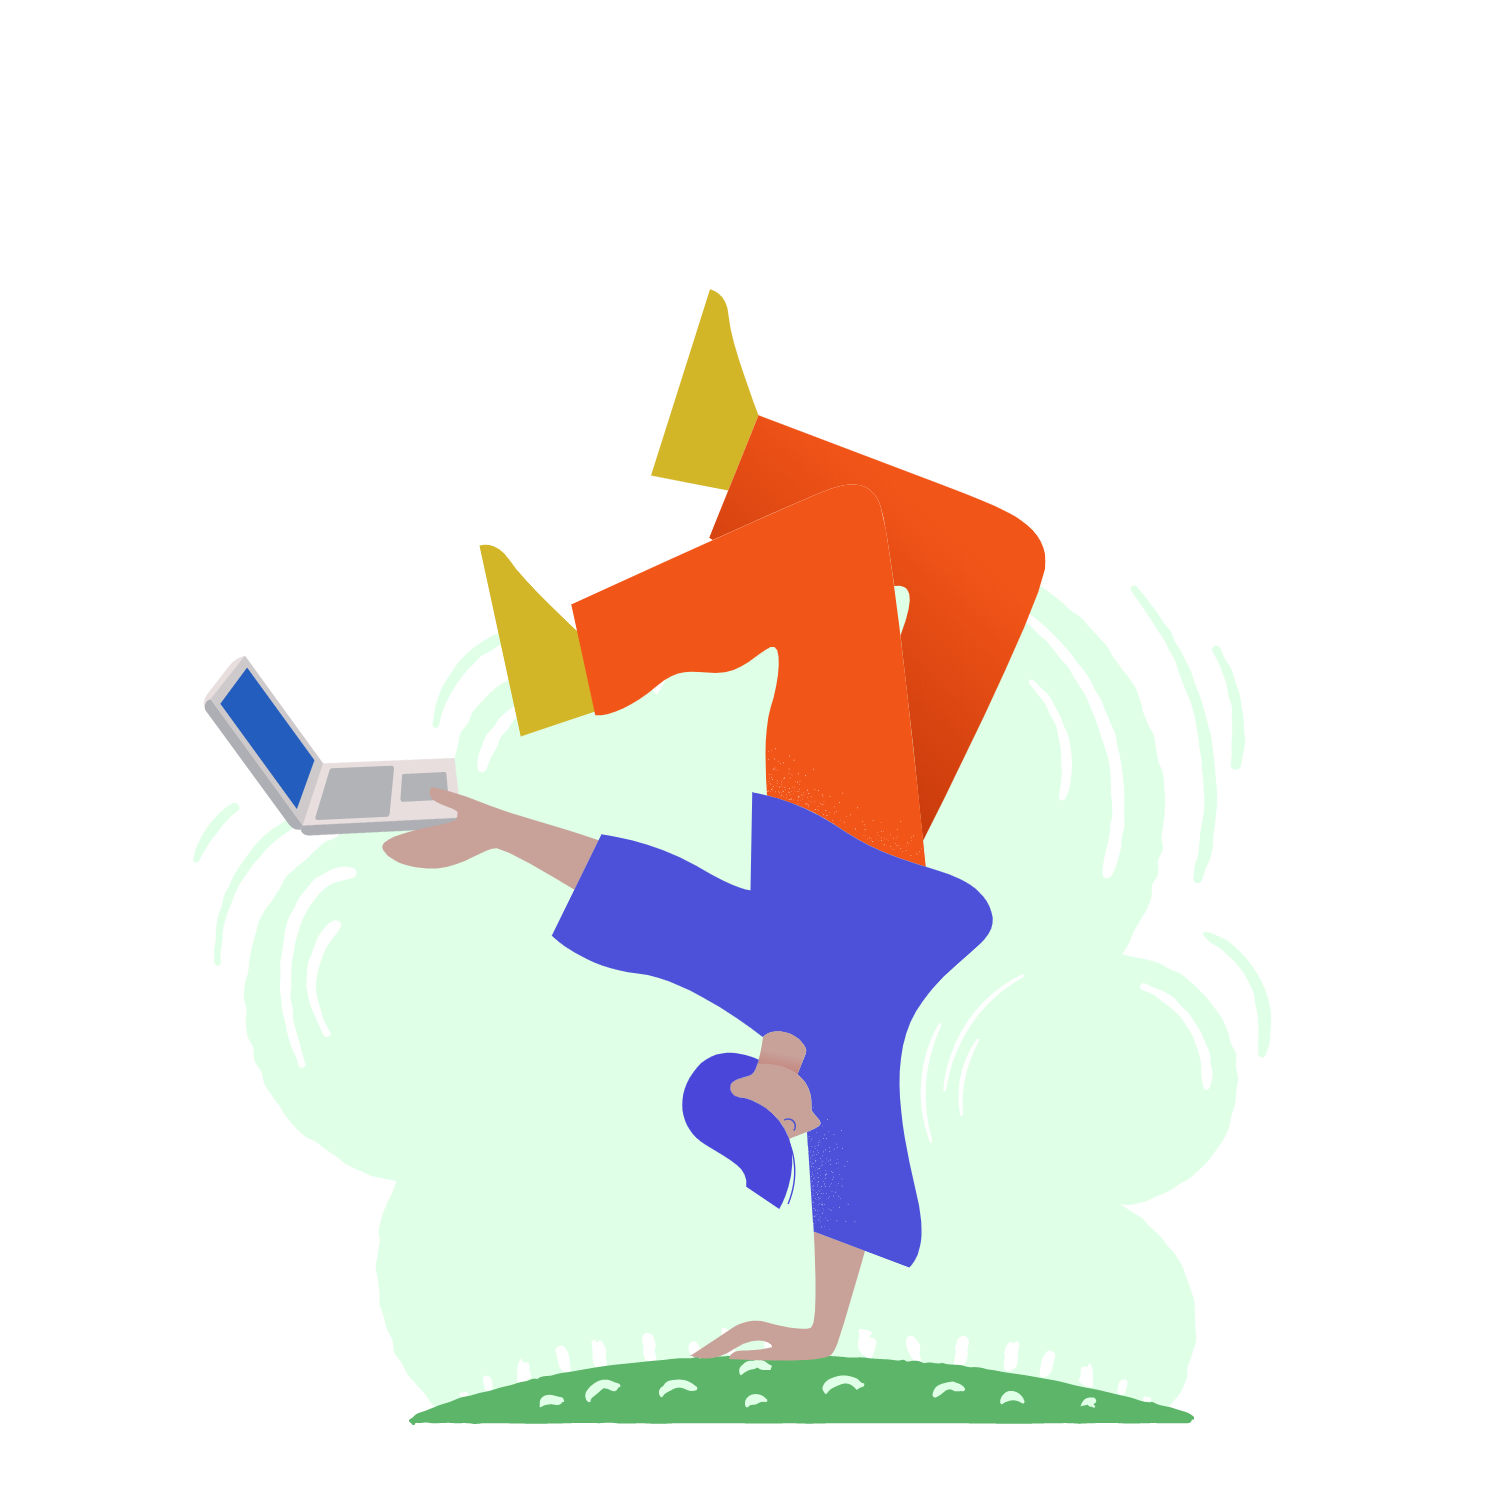
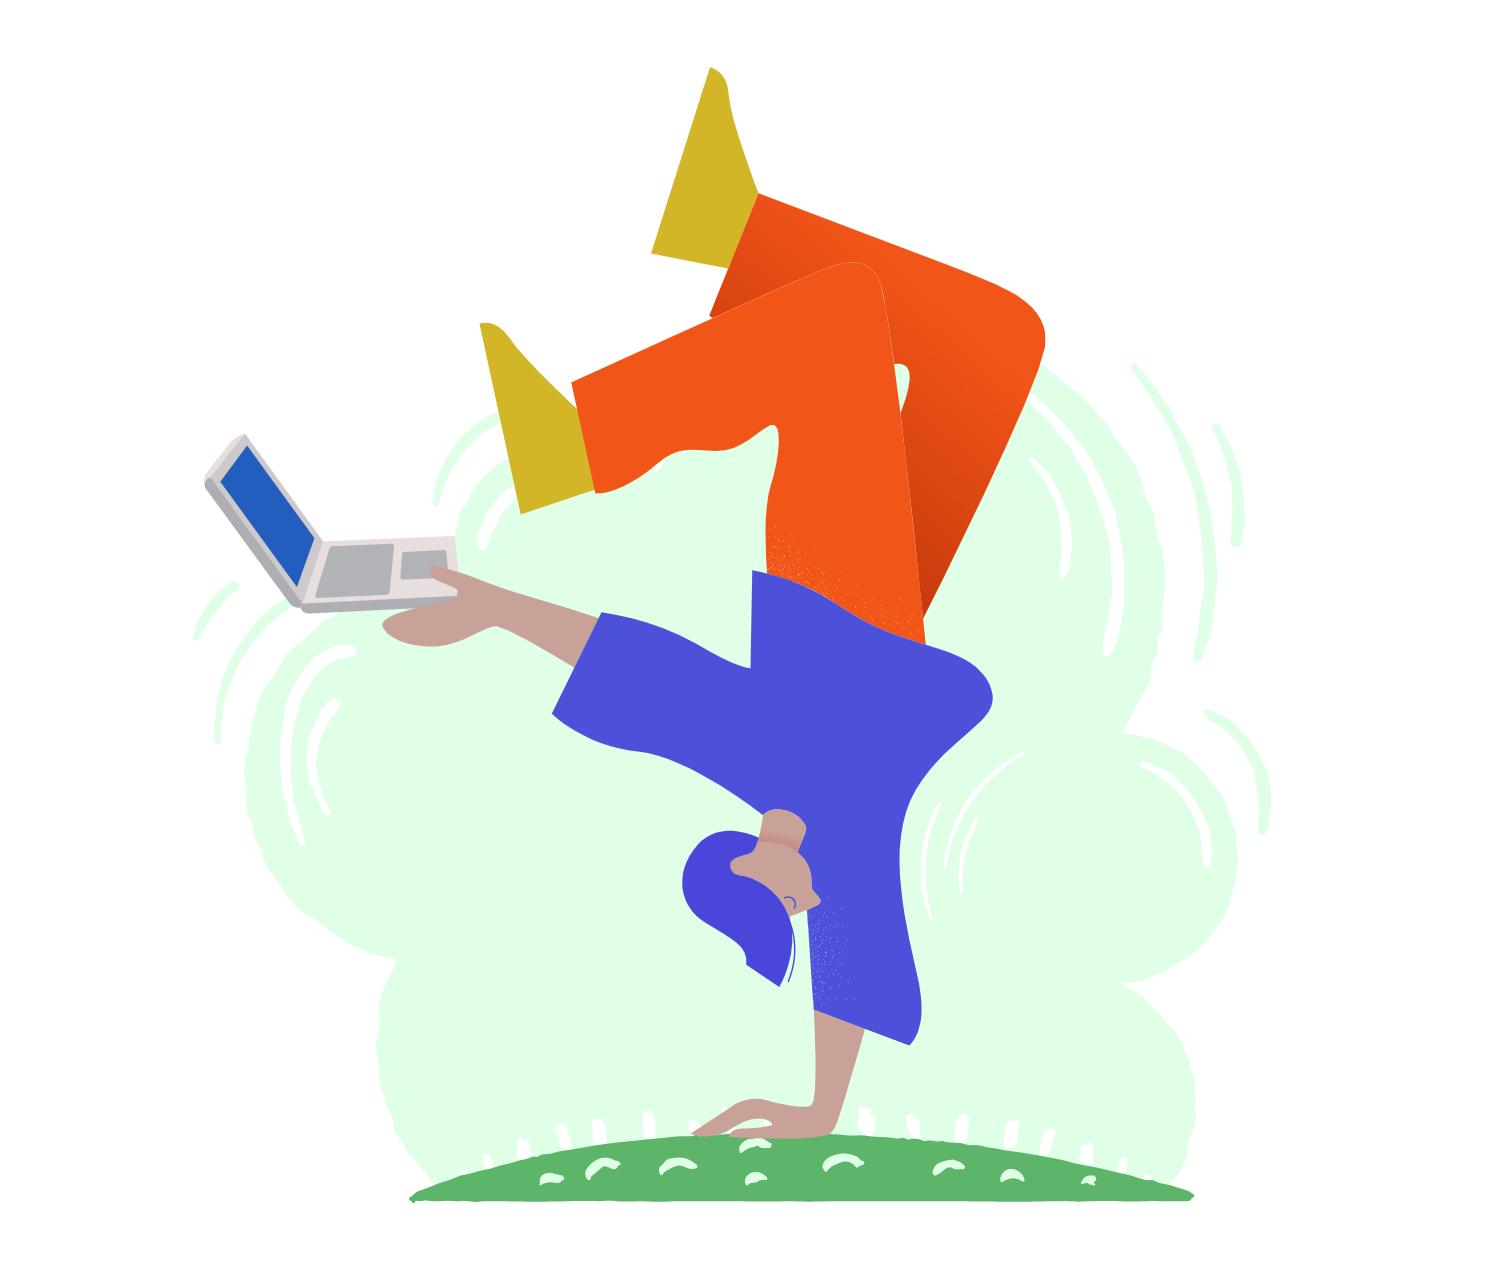
arme la seccion principal en el html y empece el css de esa seccion

diff --git a/index.html b/index.html
@@ -11,21 +11,34 @@
   <link rel="stylesheet" href="https://cdnjs.cloudflare.com/ajax/libs/font-awesome/5.13.0/css/all.min.css">
 </head>
 <body>
-  <!-- =======================
-          HEADER AND NAV
-  ============================-->
-    <header>
-      <nav class="menu-superior">
-        <ul class="lista-menu-pc">
-          <li class="indice-navegacion-superior"><a href="#sobre-mi">HOLA</a></li>
-          <li class="indice-navegacion-superior"><a href="#conocimientos">CONOCIMIENTOS</a></li>
-          <li class="indice-navegacion-superior"><a href="proyectos">PROYECTOS</a></li>
-          <li class="indice-navegacion-superior"><a href="#contacto"><button class="web-boton">CONTACTO</button></a></li>
-        </ul>
-      </nav>
-      <div class="menu-celular">
-        <i class="fas fa-bars"></i>
-      </div>
-    </header>
+  <!-- HEADER AND NAV -->
+  <header>
+    <nav class="menu-superior">
+      <ul class="lista-menu-pc">
+        <li class="indice-navegacion-superior"><a href="#sobre-mi">HOLA</a></li>
+        <li class="indice-navegacion-superior"><a href="#conocimientos">CONOCIMIENTOS</a></li>
+        <li class="indice-navegacion-superior"><a href="proyectos">PROYECTOS</a></li>
+        <li class="indice-navegacion-superior"><a href="#contacto"><button class="web-boton">CONTACTO</button></a></li>
+      </ul>
+    </nav>
+    <div class="menu-celular">
+      <i class="fas fa-bars"></i>
+    </div>
+  </header>
+
+  <!-- Sección Principal -->
+  <section id="seccion-principal">
+    <div class="contenedor-informacion-seccion-principal">
+      <p class="texto-arriba-del-titulo-principal">¡Hola! Soy</p>
+      <h1 class="titulo-principal">Mariana Cairo</h1>
+      <p class="texto-abajo-del-titulo-principal">Veggetariana, profe de Educación Física y futura programadora FrontEnd.</p>
+      <a href="#proyectos"><button class="web-boton">LO QUE HAGO</button></a>
+    </div>
+    <div class="contenedor-imagen-seccion-principal">
+      <img class="imagen-seccion-principal" src="img/handstand.png" alt="Chica haciendo la vertical y sosteniendo con una mano una notebook">
+    </div>
+
+  </section>
+
 </body>
 </html>

diff --git a/style.css b/style.css
@@ -30,18 +30,17 @@ header {
 }
 
 .menu-superior {
-  margin-right: 20px;
-  padding-right: 30px;
+  margin-right: 50px;
   display: flex;
 }
 
 .lista-menu-pc {
   display: flex;
-  justify-content: space-around;
 }
+
 .indice-navegacion-superior {
   list-style-type: none;
-  margin: 0 15px;
+  margin: 0 12px;
   display: flex;
   align-self: center;
   justify-content: center;
@@ -61,15 +60,44 @@ header {
   cursor: pointer;
 }
 
+/* Estilado de todos los botones de la web */
 .web-boton {
   background-color: #5db56a;
   cursor: pointer;
   font-size: 18px;
-  font-weight: 300;
+  font-weight: 400;
   color: #ffffff;
   border: none;
   border-radius: 50px;
   padding: 10px 30px;
 }
+.web-boton:hover {
+  background-color: #f25518;
+  box-shadow: 0px 8px 15px rgba(0, 0, 0, 0.3);
+}
+/* Fin de css de botones */
 
-
+/* ===============================
+        SECCIÓN PRINCIPAL
+==================================*/
+#seccion-principal {
+  margin: 100px 50px;
+  display: flex;
+  justify-content: space-around;
+  height: 100vh;
+}
+.contenedor-informacion-seccion-principal {
+  width: 40%;
+  display: flex;
+  flex-direction: column;
+  justify-content: center;
+}
+.contenedor-imagen-seccion-principal {
+  width: 60%;
+  display: flex;
+  justify-content: center;
+  align-items: flex-start;
+}
+.imagen-seccion-principal {
+  width: 100%;
+}
